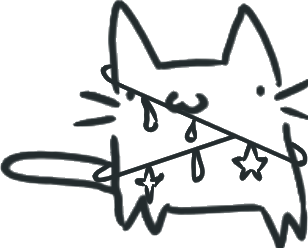
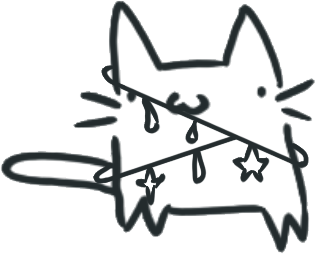
Meow Brigade: re-cut Element cat (full whiskers, face filled)
Claude-Session: https://claude.ai/code/session_01FVwx8DT7jVrrb4RaWoxeX3

Changed region(s): [[0.0, 0.0, 1.0, 1.0], [0.9643, 0.4516, 1.0, 0.5081]]

diff --git a/cat-rat-battle/src/cut_element.py b/cat-rat-battle/src/cut_element.py
@@ -1,0 +1,29 @@
+# Element cat re-cut (Jason 2026-10-19: the first cut had white spilling outside the lines).
+# His drawing leaves the face open where the whiskers are, so two invisible guide lines close
+# those gaps for the white fill only; the ink itself is untouched.
+import os, numpy as np
+from PIL import Image, ImageDraw
+from scipy import ndimage as nd
+D = os.path.dirname(os.path.abspath(__file__)); SHEET = os.path.join(D, 'round2-sheet.png')
+S = Image.open(SHEET).width / 2000
+box = [int(v * S) for v in (50, 1095, 365, 1350)]
+im = Image.open(SHEET).convert('RGBA'); bg = Image.new('RGBA', im.size, 'white'); bg.alpha_composite(im)
+a = np.array(bg.convert('RGB')).astype(int)[box[1]:box[3], box[0]:box[2]]
+ink = a.min(2) < 200
+lab, n = nd.label(nd.binary_dilation(ink, iterations=2)); keep = np.zeros_like(ink)
+for i, sl in enumerate(nd.find_objects(lab)):
+    cy, cx = (sl[0].start + sl[0].stop) / 2, (sl[1].start + sl[1].stop) / 2
+    if cx > 335 or cy > 275 or (sl[0].stop - sl[0].start) * (sl[1].stop - sl[1].start) < 30: continue  # weapon, name label, specks
+    keep |= lab == i + 1
+ink &= keep
+guide = Image.new('L', (ink.shape[1], ink.shape[0])); g = ImageDraw.Draw(guide)
+g.line([(138, 112), (136, 166)], fill=1, width=6); g.line([(301, 108), (309, 156)], fill=1, width=6); g.line([(124, 184), (124, 218)], fill=1, width=6)  # face sides, tail end
+wall = ink | (np.array(guide) > 0)
+body = nd.binary_fill_holes(nd.binary_closing(np.pad(wall, 6), iterations=3))[6:-6, 6:-6]
+out = np.zeros(a.shape[:2] + (4,), np.uint8); out[..., :3] = 255; out[body, 3] = 255
+dark = 255 - a.min(2)
+near = nd.binary_dilation(ink, iterations=1)
+out[near, :3] = a[near]; out[near, 3] = np.maximum(out[near, 3], np.clip(dark[near] * 2, 0, 255)).astype(np.uint8)
+out[ink, 3] = 255
+img = Image.fromarray(out); img = img.crop(img.getbbox())
+img.save(os.path.join(D, '..', 'assets', 'cat_element.png')); print(img.size)
